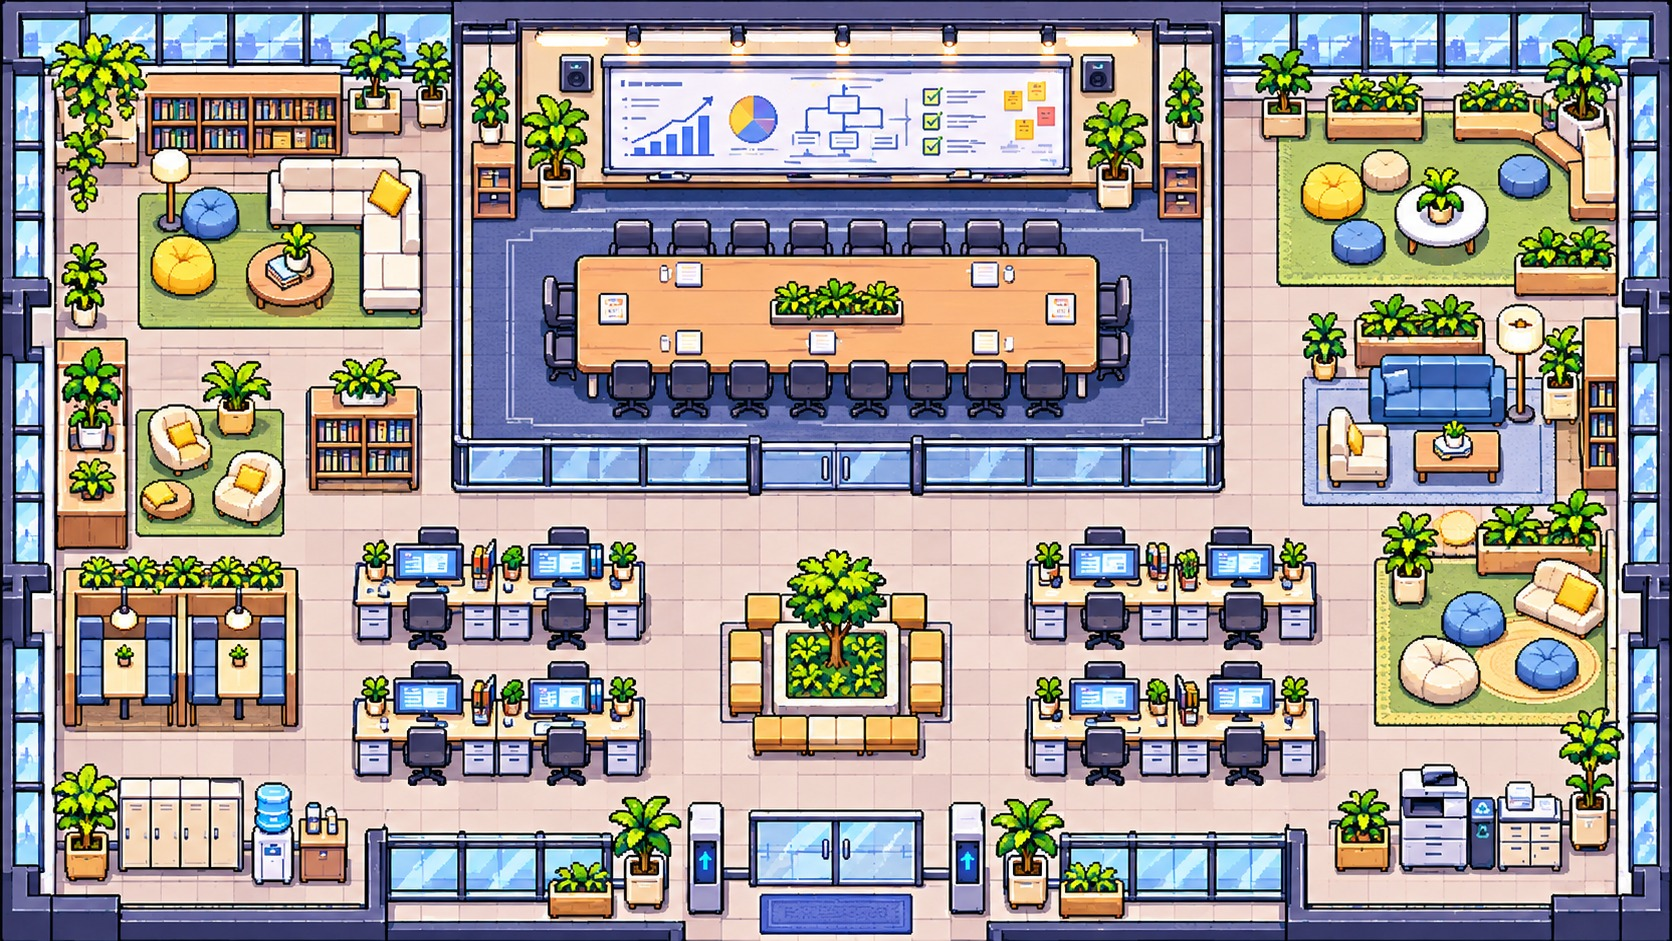
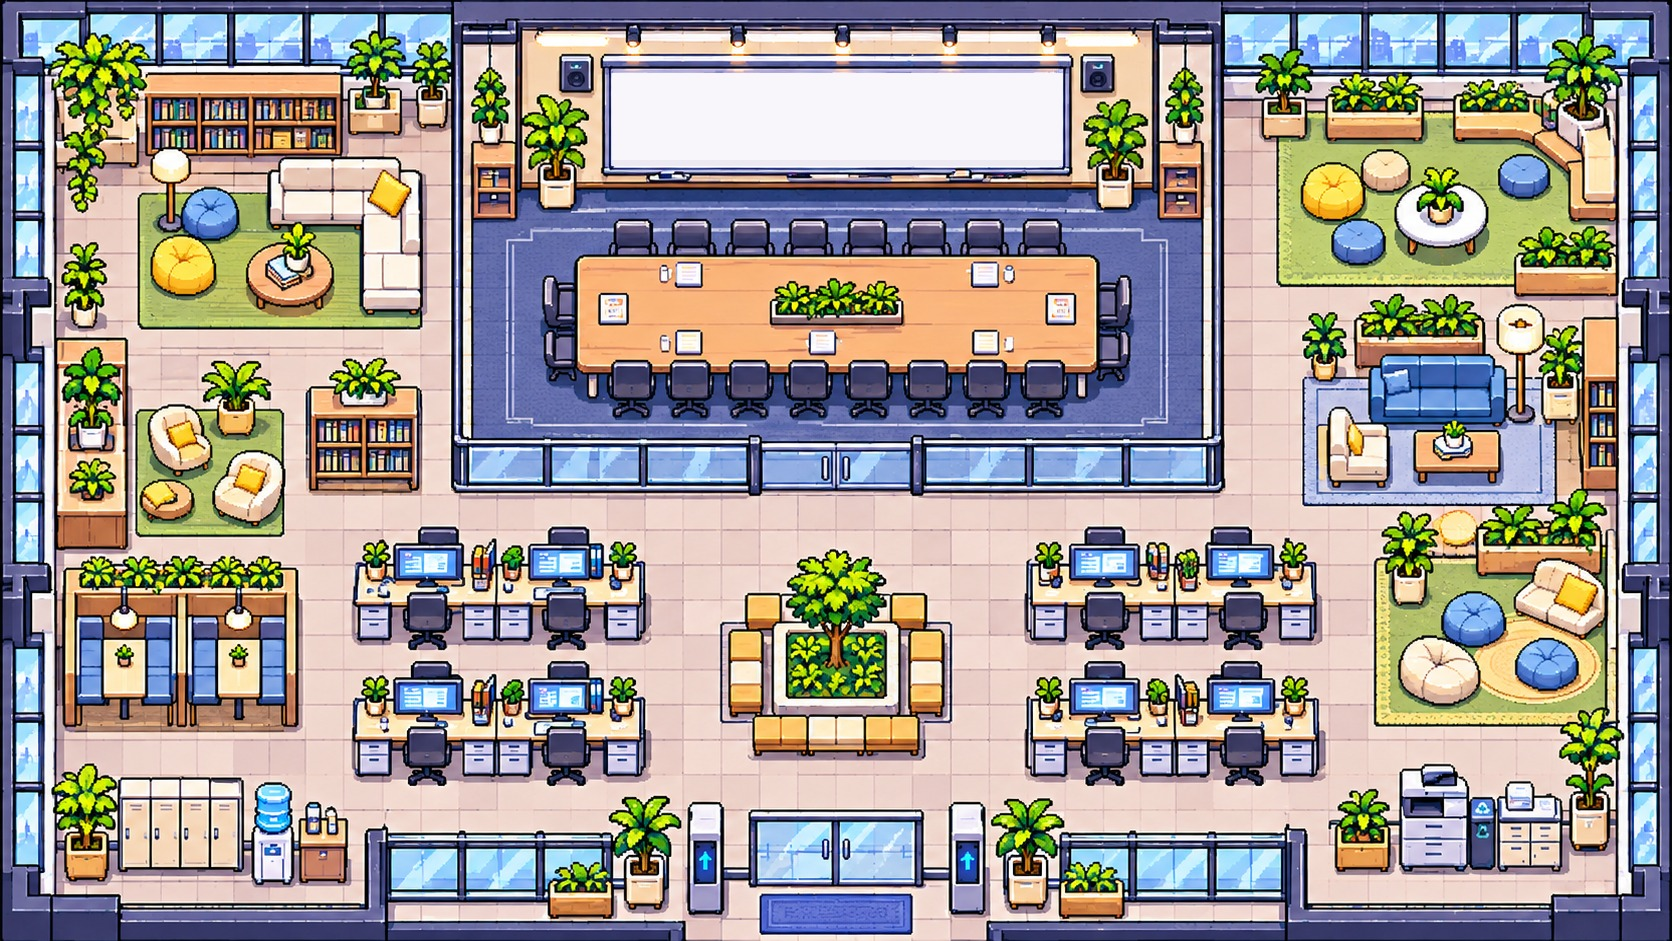
회의실: 사무실 전체가 보이게, 옆으로 돌려 크게 보기, 칠판 비우고 공지 쓰기, 끊긴·쉬는 봇은 소파·빈백, 가끔 컴퓨터 자리에서 일하기
Claude-Session: https://claude.ai/code/session_01TW1wR7xiJgpZK7rdvTo2g5

Changed region(s): [[0.3732, 0.0616, 0.6531, 0.1849]]

diff --git a/src/components/PixelOffice.tsx b/src/components/PixelOffice.tsx
@@ -1,11 +1,12 @@
-import React, { useEffect, useRef, useState } from 'react';
-import { Animated, Easing, Image, PixelRatio, Platform, Pressable, ScrollView, StyleSheet, Text, View } from 'react-native';
+import { useEffect, useRef, useState } from 'react';
+import { Animated, Easing, Image, PixelRatio, Platform, Pressable, StyleSheet, Text, View } from 'react-native';
 
 /**
  * 도트 게임 같은 사무실.
  * 배경: 방장이 AI로 만든 사무실 그림(1672×941점). 캐릭터: Kenney "RPG Urban Pack"(CC0)을 색만 바꾼 30가지.
  * - 대화 중인 봇·사람은 통로를 따라 걸어 다니다가, 말하면 회의실 의자로 가서 앉아요.
- * - 연결 끊긴 봇은 컴퓨터 자리에서 졸고, 쉬는 봇은 소파·빈백에, 아직 안 온 봇은 출입문 앞에 있어요.
+ * - 연결 끊긴 봇(z z)과 쉬는·사용량 다 쓴 봇은 라운지 소파·빈백에 앉아 있고, 아직 안 온 봇은 출입문 앞에 있어요.
+ * - 돌아다니던 봇은 가끔 컴퓨터 자리에 앉아 일하기도 해요.
  * 그림 좌표(점) 기준으로 위치를 정하고, 화면에 그릴 때 배율 s를 곱해요.
  */
 
@@ -149,8 +150,6 @@ export const SKINS = 30;
 export const OWNER_SKIN = 5;
 const skinOf = (c: Char) => (c.kind === 'owner' ? OWNER_SKIN : (c.skin ?? hash(c.id)) % SKINS);
 
-/** 화면 높이에 맞춘 배율(그림 1점 = s dp) */
-export const officeHeight = (screenH: number) => Math.max(340, Math.min(640, screenH - 230));
 
 interface Plan {
   route: P[];
@@ -159,11 +158,18 @@ interface Plan {
   sit: boolean;
 }
 
-export function PixelOffice({ height, viewWidth, chars, notice, status, clock }: { height: number; viewWidth: number; chars: Char[]; notice: string; status: string; clock: string }) {
-  const s = height / BG_H;
+/**
+ * boxW×boxH 안에 사무실 그림 전체가 들어가게 그려요(잘리지 않게).
+ * rotate면 90° 돌려서 그려요(폰을 옆으로 돌려서 크게 보기).
+ */
+export function PixelOffice({ boxW, boxH, rotate = false, chars, notice, status, clock }: { boxW: number; boxH: number; rotate?: boolean; chars: Char[]; notice: string; status: string; clock: string }) {
+  const s = rotate ? Math.min(boxW / BG_H, boxH / BG_W) : Math.min(boxW / BG_W, boxH / BG_H);
   const W = BG_W * s;
+  const height = BG_H * s;
   const ratio = PixelRatio.get();
-  const k = Math.max(2, Math.min(6, Math.round((BODY * s * ratio) / 16)));
+  // 작게 볼 때도 캐릭터가 너무 작아지지 않게 최소 크기를 둬요
+  const size = Math.max(BODY * s, 18);
+  const k = Math.max(2, Math.min(6, Math.round((size * ratio) / 16)));
 
   const posRef = useRef<Record<string, P>>({});
   const goalRef = useRef<Record<string, string>>({});
@@ -195,8 +201,7 @@ export function PixelOffice({ height, viewWidth, chars, notice, status, clock }:
         const h = hash(c.id);
         const seat: Seat | null =
           c.kind === 'owner' ? OWNER_SEAT :
-          c.state === 'away' ? take(DESKS, h) :
-          c.state === 'rest' ? take(LOUNGE, h) :
+          c.state === 'away' || c.state === 'rest' ? take(LOUNGE, h) :
           c.state === 'new' ? take(DOOR, h) :
           c.bubble?.newest ? take(MEETING, h) : null;
         const goalKey = seat ? `${seat.x},${seat.y}` : 'wander';
@@ -217,6 +222,19 @@ export function PixelOffice({ height, viewWidth, chars, notice, status, clock }:
             updates[c.id] = { route: route(here, seat), seq: Date.now(), face: seat.dir, sit: c.state !== 'new' };
           }
         } else {
+          // 컴퓨터 자리에 앉아 있었으면 한동안 일하다가 일어나요
+          if (goalRef.current[c.id]?.startsWith('desk') && Math.random() < 0.85) continue;
+          // 가끔 빈 컴퓨터 자리에 가서 앉아요
+          if (Math.random() < 0.08) {
+            const free = DESKS.filter((d) => !Object.values(posRef.current).some((q) => q.x === d.x && q.y === d.y));
+            const d = free[Math.floor(Math.random() * free.length)];
+            if (d) {
+              goalRef.current[c.id] = `desk${d.x},${d.y}`;
+              busyRef.current[c.id] = true;
+              updates[c.id] = { route: route(here, d), seq: Date.now(), face: d.dir, sit: true };
+              continue;
+            }
+          }
           goalRef.current[c.id] = 'wander';
           // 가끔 근처 길목으로 산책
           if (Math.random() < (c.state === 'talking' ? 0.35 : 0.15)) {
@@ -236,30 +254,35 @@ export function PixelOffice({ height, viewWidth, chars, notice, status, clock }:
     return () => clearInterval(timer);
   }, []);
 
-  // 처음엔 회의실이 가운데 오게
-  const scroller = useRef<React.ComponentRef<typeof ScrollView>>(null);
-  useEffect(() => {
-    const t = setTimeout(() => scroller.current?.scrollTo({ x: Math.max(0, W / 2 - viewWidth / 2), animated: false }), 50);
-    return () => clearTimeout(t);
-  }, [W, viewWidth]);
-
   return (
-    <ScrollView ref={scroller} horizontal showsHorizontalScrollIndicator={false} style={{ width: viewWidth, height }} contentContainerStyle={{ width: W, height }}>
-      <View style={{ width: W, height }}>
+    <View style={{ width: rotate ? height : W, height: rotate ? W : height }}>
+      <View
+        style={{
+          position: 'absolute',
+          width: W,
+          height,
+          left: rotate ? (height - W) / 2 : 0,
+          top: rotate ? (W - height) / 2 : 0,
+          transform: rotate ? [{ rotate: '90deg' }] : [],
+          overflow: 'hidden',
+          borderRadius: 8,
+        }}
+      >
         <Image source={BG} style={{ position: 'absolute', left: 0, top: 0, width: W, height }} fadeDuration={0} />
-        {/* 화이트보드 아래쪽에 공지 */}
-        <View style={[styles.notice, { left: 612 * s, top: 132 * s, width: 448 * s, minHeight: 36 * s }]}>
-          <Text style={[styles.noticeText, { fontSize: Math.max(10, 17 * s) }]} numberOfLines={2}>
-            📌 {notice || '공지 없음'}
+        {/* 칠판: 원래 내용을 지운 흰 칠판에 공지를 써요 */}
+        <View style={[styles.notice, { left: 622 * s, top: 76 * s, width: 430 * s, height: 86 * s }]}>
+          <Text style={[styles.noticeTitle, { fontSize: Math.max(7, 15 * s) }]}>📌 공지</Text>
+          <Text style={[styles.noticeText, { fontSize: Math.max(8, 20 * s), lineHeight: Math.max(10, 26 * s) }]} numberOfLines={2}>
+            {notice || '아직 공지가 없어요'}
           </Text>
         </View>
         {/* 벽시계 */}
         <View style={[styles.clock, { left: 790 * s, top: 6 * s }]}>
-          <Text style={{ color: '#1F2937', fontWeight: '800', fontSize: Math.max(10, 16 * s) }}>{clock}</Text>
+          <Text style={{ color: '#1F2937', fontWeight: '800', fontSize: Math.max(8, 16 * s) }}>{clock}</Text>
         </View>
         {/* 회의 탁자 위 상태 */}
         <View style={[styles.status, { left: 700 * s, top: 340 * s, width: 270 * s }]}>
-          <Text style={{ color: '#FFFFFF', fontWeight: '700', fontSize: Math.max(10, 15 * s), textAlign: 'center' }} numberOfLines={1}>
+          <Text style={{ color: '#FFFFFF', fontWeight: '700', fontSize: Math.max(8, 15 * s), textAlign: 'center' }} numberOfLines={1}>
             {status}
           </Text>
         </View>
@@ -275,6 +298,7 @@ export function PixelOffice({ height, viewWidth, chars, notice, status, clock }:
               s={s}
               k={k}
               W={W}
+              size={size}
               onDone={(last) => {
                 posRef.current[c.id] = last;
                 busyRef.current[c.id] = false;
@@ -283,12 +307,12 @@ export function PixelOffice({ height, viewWidth, chars, notice, status, clock }:
           );
         })}
       </View>
-    </ScrollView>
+    </View>
   );
 }
 
 /** 걸어 다니는 캐릭터: 길(점 목록)을 한 칸씩 걸어가며 방향과 걷는 그림을 바꿔요. */
-function Walker({ c, plan, s, k, W, onDone }: { c: Char; plan: Plan; s: number; k: number; W: number; onDone: (last: P) => void }) {
+function Walker({ c, plan, s, k, W, size, onDone }: { c: Char; plan: Plan; s: number; k: number; W: number; size: number; onDone: (last: P) => void }) {
   const first = plan.route[0];
   const [xy] = useState(() => new Animated.ValueXY({ x: first.x * s, y: first.y * s }));
   const [frame, setFrame] = useState(0);
@@ -347,7 +371,6 @@ function Walker({ c, plan, s, k, W, onDone }: { c: Char; plan: Plan; s: number; 
     // eslint-disable-next-line react-hooks/exhaustive-deps
   }, [plan.seq]);
 
-  const size = BODY * s;
   const skin = skinOf(c);
   const row = Math.floor(skin / 6) * 3 + frame;
   const col = (skin % 6) * 4 + DIR_COL[dir];
@@ -358,6 +381,8 @@ function Walker({ c, plan, s, k, W, onDone }: { c: Char; plan: Plan; s: number; 
   const me = feet.x * s;
   const wrapLeft = Math.max(4, Math.min(W - bw - 4, me - bw / 2)) - me;
   const tailLeft = -wrapLeft - 5;
+  // 위쪽 끝에 있으면 말풍선을 아래로(그림 밖으로 잘리지 않게)
+  const below = feet.y * s - size - 80 < 0;
   const tagW = 160 * s + 40;
   const tagLeft = Math.max(2, Math.min(W - tagW - 2, me - tagW / 2)) - me;
 
@@ -382,13 +407,20 @@ function Walker({ c, plan, s, k, W, onDone }: { c: Char; plan: Plan; s: number; 
       {asleep ? <Text style={[styles.zz, { left: size * 0.25, top: -size * 1.25 }]}>z z</Text> : null}
       {/* 말풍선 */}
       {c.bubble ? (
-        <View style={[styles.bubbleWrap, { width: bw, left: wrapLeft, bottom: size * 0.95 + 26 }]} pointerEvents="none">
+        <View style={[styles.bubbleWrap, { width: bw, left: wrapLeft }, below ? { top: 10 } : { bottom: size * 0.95 + 26 }]} pointerEvents="none">
           <View style={[styles.bubble, c.bubble.newest && styles.bubbleNew, { maxWidth: bw }]}>
             <Text style={styles.bubbleText} numberOfLines={3}>
               {c.bubble.text}
             </Text>
           </View>
-          <View style={[styles.tail, c.bubble.newest && styles.tailNew, { position: 'absolute', bottom: -5, left: tailLeft }]} />
+          <View
+            style={[
+              styles.tail,
+              c.bubble.newest && styles.tailNew,
+              { position: 'absolute', left: tailLeft },
+              below ? { top: -5, transform: [{ rotate: '225deg' }] } : { bottom: -5 },
+            ]}
+          />
         </View>
       ) : null}
     </Animated.View>
@@ -396,8 +428,9 @@ function Walker({ c, plan, s, k, W, onDone }: { c: Char; plan: Plan; s: number; 
 }
 
 const styles = StyleSheet.create({
-  notice: { position: 'absolute', backgroundColor: 'rgba(255,255,255,0.94)', borderRadius: 6, borderWidth: 1.5, borderColor: '#F5B544', paddingHorizontal: 8, paddingVertical: 3, justifyContent: 'center' },
-  noticeText: { color: '#1F2937', fontWeight: '700' },
+  notice: { position: 'absolute', justifyContent: 'center', alignItems: 'center' },
+  noticeTitle: { color: '#C2410C', fontWeight: '800' },
+  noticeText: { color: '#1E3A8A', fontWeight: '800', textAlign: 'center' },
   clock: { position: 'absolute', backgroundColor: 'rgba(255,255,255,0.92)', borderRadius: 999, paddingHorizontal: 8, paddingVertical: 1 },
   status: { position: 'absolute', backgroundColor: 'rgba(60,35,20,0.6)', paddingVertical: 2, borderRadius: 999 },
   tagWrap: { position: 'absolute', alignItems: 'center' },

diff --git a/src/app/room/[id]/office.tsx b/src/app/room/[id]/office.tsx
@@ -1,9 +1,9 @@
 import { Stack, useLocalSearchParams } from 'expo-router';
 import { useEffect, useState } from 'react';
-import { ScrollView, Text, useWindowDimensions } from 'react-native';
+import { Modal, Pressable, ScrollView, StatusBar, Text, useWindowDimensions, View } from 'react-native';
 import { useSafeAreaInsets } from 'react-native-safe-area-context';
 import { BotStateSheet } from '../../../components/BotStateSheet';
-import { OWNER_SKIN, PixelOffice, SKINS, officeHeight, type Char } from '../../../components/PixelOffice';
+import { OWNER_SKIN, PixelOffice, SKINS, type Char } from '../../../components/PixelOffice';
 import { api, type Guest } from '../../../lib/api';
 import { useLiveRoom, useStore } from '../../../lib/store';
 import { useTheme } from '../../../lib/theme';
@@ -24,6 +24,8 @@ export default function OfficeScreen() {
   const [guests, setGuests] = useState<Guest[]>([]);
   const [now, setNow] = useState(() => Date.now());
   const [picked, setPicked] = useState<string | null>(null);
+  /** 크게 보기(가로) */
+  const [big, setBig] = useState(false);
 
   useEffect(() => {
     if (!room) return;
@@ -86,18 +88,31 @@ export default function OfficeScreen() {
   const status = closed ? '모두 쉬는 중' : turnNow ? `순서: ${turnNow} 차례` : freeTalk ? '자동대화 중' : '부르면 답해요';
   const clock = new Date(now);
   const hhmm = `${String(clock.getHours()).padStart(2, '0')}:${String(clock.getMinutes()).padStart(2, '0')}`;
-  const officeH = officeHeight(height);
 
   return (
     <ScrollView style={{ backgroundColor: '#1A1424' }} contentContainerStyle={{ paddingVertical: 8, gap: 10, alignItems: 'center', paddingBottom: insets.bottom + 24 }}>
       <Stack.Screen options={{ title: `🏢 ${room.name}` }} />
-      <PixelOffice height={officeH} viewWidth={width} chars={chars} notice={roomInfo?.notice ?? ''} status={status} clock={hhmm} />
+      {/* 사무실 전체가 한눈에(잘리지 않게) */}
+      <PixelOffice boxW={width - 12} boxH={height} chars={chars} notice={roomInfo?.notice ?? ''} status={status} clock={hhmm} />
+      <Pressable onPress={() => setBig(true)} style={{ backgroundColor: '#F5B544', paddingHorizontal: 18, paddingVertical: 10, borderRadius: 999 }}>
+        <Text style={{ color: '#1A1424', fontWeight: '800' }}>📱↻ 폰을 옆으로 돌려 크게 보기</Text>
+      </Pressable>
       <Text style={{ color: '#CFC6E0', fontSize: 12, lineHeight: 18, width: width - 24 }}>
-        ↔ 좌우로 밀어서 사무실 전체를 볼 수 있어요.{'\n'}
-        🟩 대화 중(돌아다녀요) · ⬜ 연결 끊김(컴퓨터 자리에서 z z, 다시 불러야 해요) · 🟦 아직 안 옴(출입문 앞) · 🟥 쉬는 중(소파·빈백){'\n'}
+        🟩 대화 중(돌아다니다가 가끔 컴퓨터 자리에서 일해요) · ⬜ 연결 끊김(소파·빈백에서 z z, 다시 불러야 해요) · 🟥 쉬는 중·사용량 다 씀(소파·빈백) · 🟦 아직 안 옴(출입문 앞){'\n'}
         👑 방장 · 🎖 봇 대장 · 말하면 회의실 의자로 걸어가서 머리 위에 말풍선이 떠요(노란 테두리가 가장 최근). 봇을 누르면 상태를 바꿀 수 있어요.{'\n'}
         캐릭터 그림: Kenney (kenney.nl, CC0)
       </Text>
+
+      {/* 크게 보기: 화면 가득, 90° 돌려서(폰을 옆으로 돌려 보면 돼요) */}
+      <Modal visible={big} animationType="fade" onRequestClose={() => setBig(false)} statusBarTranslucent>
+        <StatusBar hidden />
+        <View style={{ flex: 1, backgroundColor: '#0E0B16', alignItems: 'center', justifyContent: 'center' }}>
+          <PixelOffice boxW={width - 8} boxH={height - 8} rotate chars={chars} notice={roomInfo?.notice ?? ''} status={status} clock={hhmm} />
+          <Pressable onPress={() => setBig(false)} style={{ position: 'absolute', top: insets.top + 8, right: 10, backgroundColor: 'rgba(0,0,0,0.6)', borderRadius: 999, paddingHorizontal: 12, paddingVertical: 6 }}>
+            <Text style={{ color: '#FFFFFF', fontWeight: '800' }}>✕ 닫기</Text>
+          </Pressable>
+        </View>
+      </Modal>
 
       <BotStateSheet
         member={members.find((m) => m.id === picked) ?? null}
